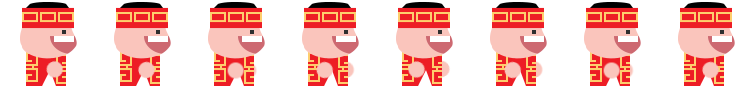
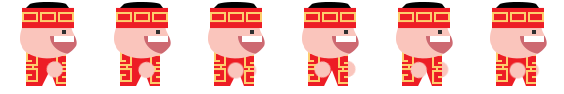
Implement walking animation for all direction; normalize 6-frame animation; let character always on the move as main control item

diff --git a/client/css/components/_characters.scss b/client/css/components/_characters.scss
@@ -1,43 +1,45 @@
 
-.map-grid .square {
-	width: 8.33333%;
-	padding-bottom: 8.33333%;
-	float: left;
+.map-grid {
 
-	&.wall {
-		background-image: url(img/characters/wall.png);
-		background-repeat: no-repeat;
-		background-size: 100%;
+	.square {
+		width: 8.33333%;
+		padding-bottom: 8.33333%;
+		float: left;
 
-		@include media-query(retina) {
-			background-image: url(img/characters2x/wall.png);
+		&.wall {
+			background-image: url(img/characters/wall.png);
+			background-repeat: no-repeat;
+			background-size: 100%;
+
+			@include media-query(retina) {
+				background-image: url(img/characters2x/wall.png);
+			}
+		}
+
+		&.rock {
+			background-image: url(img/characters/rock.png);
+			background-size: 100%;
+
+			@include media-query(retina) {
+				background-image: url(img/characters2x/rock.png);
+			}
+		}
+
+		&.ground {
+			background-image: url(img/characters/ground.png);
+			background-size: 100%;
+
+			@include media-query(retina) {
+				background-image: url(img/characters2x/ground.png);
+			}
 		}
 	}
 
-	&.user {
-		transition: all linear 0.5s;
+	.user {
 		position: absolute;
 	}
 
-	// &.user-down {
-	// 	background-image: url(img/characters/main-character.png);
-	// 	background-size: 100%;
-
-	// 	@include media-query(retina) {
-	// 		background-image: url(img/characters2x/main-character.png);
-	// 	}
-	// }
-
-	&.rock {
-		background-image: url(img/characters/rock.png);
-		background-size: 100%;
-
-		@include media-query(retina) {
-			background-image: url(img/characters2x/rock.png);
-		}
-	}
-
-	&.goal {
+	.goal {
 		position: absolute;
 		background-image: url(img/characters/goal.png);
 		background-size: 100%;
@@ -47,11 +49,7 @@
 		}
 	}
 
-	&.banh-chung {
-		-webkit-transition: all linear 0.5s;
-		-moz-transition: all linear 0.5s;
-		-o-transition: all linear 0.5s;
-		transition: all linear 0.5s;
+	.banh-chung {
 		position: absolute;
 		background-image: url(img/characters/banh-chung.png);
 		background-size: 100%;
@@ -61,38 +59,39 @@
 		}
 	}
 
-	&.ground {
-		background-image: url(img/characters/ground.png);
-		background-size: 100%;
+	.user,
+	.banh-chung {
+		// define movement animation
+		transition-property: top, left;
+		transition-timing-function: linear;
+		transition-duration: $character-movement-duration;
+	}
 
-		@include media-query(retina) {
-			background-image: url(img/characters2x/ground.png);
+	.decorator {
+		@include character-icon(decorator-1, 73px, 103px);
+		@include character-icon(decorator-2, 63px, 94px);
+		@include character-icon(decorator-3, 73px, 109px);
+		@include character-icon(decorator-4, 51px, 95px);
+		@include character-icon(decorator-5, 47px, 103px);
+		@include character-icon(decorator-6, 71px, 132px);
+		@include character-icon(decorator-7, 62px, 104px);
+		@include character-icon(decorator-8, 70px, 175px);
+		position: relative;
+
+		&:before {
+			content: '';
+			background-position: left bottom;
+			background-repeat: no-repeat;
+			background-size: 100%;
+			overflow: visible;
+			position: absolute;
+			bottom: -20px;
+			left: 50%;
 		}
 	}
 }
 
-.map-grid .decorator {
-	@include character-icon(decorator-1, 73px, 103px);
-	@include character-icon(decorator-2, 63px, 94px);
-	@include character-icon(decorator-3, 73px, 109px);
-	@include character-icon(decorator-4, 51px, 95px);
-	@include character-icon(decorator-5, 47px, 103px);
-	@include character-icon(decorator-6, 71px, 132px);
-	@include character-icon(decorator-7, 62px, 104px);
-	@include character-icon(decorator-8, 70px, 175px);
-	position: relative;
 
-	&:before {
-		content: '';
-		background-position: left bottom;
-		background-repeat: no-repeat;
-		background-size: 100%;
-		overflow: visible;
-		position: absolute;
-		bottom: -20px;
-		left: 50%;
-	}
-}
 
 // user animation
 .user-up,
@@ -137,19 +136,14 @@
 		background-image: url(img/animation/user-down.png);
 		background-size: 100%;
 
+		animation-name: moving;
+		animation-duration: $walking-animation-duration;
+		animation-iteration-count: infinite;
+		animation-timing-function: steps(6, end);
+
 		@include media-query(retina) {
 			width: 600%;
 			background-image: url(img/animation2x/user-down.png);
-		}
-	}
-
-	&.moving {
-		&:before {
-			animation: moving $timing-character steps(6, end) infinite;
-
-			@include media-query(retina) {
-				width: 600%;
-			}
 		}
 	}
 }
@@ -164,33 +158,21 @@
 
 .user-left {
 	&:before {
-		width: 800%;
 		background-image: url(img/animation/user-left.png);
 
 		@include media-query(retina) {
 			background-image: url(img/animation2x/user-left.png);
 		}
 	}
-
-	&.moving:before {
-		width: 800%;
-		animation: moving $timing-character steps(8, end) infinite;
-	}
 }
 
 .user-right {
 	&:before {
-		width: 800%;
 		background-image: url(img/animation/user-right.png);
 
 		@include media-query(retina) {
 			background-image: url(img/animation2x/user-right.png);
 		}
-	}
-
-	&.moving:before {
-		width: 800%;
-		animation: moving $timing-character steps(8, end) infinite;
 	}
 }
 

diff --git a/client/data/MapRender.js b/client/data/MapRender.js
@@ -103,11 +103,15 @@ window.chungapp.render = window.chungapp.render || {};
 
 			var dataX = userPosition.x;
 			var dataY = userPosition.y;
+			var directionClass = 'user-' + direction;
 
-			$('.user').addClass('moving').css({
-				'left': ( dataX / 12 ) * 100 + '%',
-				'top': ( dataY / 12 ) * 100 + '%'
-			});
+			$('.user')
+				.removeClass('user-right user-left user-up user-down')
+				.addClass(directionClass)
+				.css({
+					'left': ( dataX / 12 ) * 100 + '%',
+					'top': ( dataY / 12 ) * 100 + '%'
+				});
 
 			var banhChungArray = $('.banh-chung');
 
@@ -123,9 +127,9 @@ window.chungapp.render = window.chungapp.render || {};
 				}
 			}
 			var el = document.getElementsByClassName('user')[0];
-			el.addEventListener("transitionend", function() {
-				$(this).removeClass('moving');
-			}, true);
+			// el.addEventListener('transitionend', function() {
+			// 	$(this).removeClass('moving');
+			// }, true);
 
 		},
 

diff --git a/client/css/_variables.scss b/client/css/_variables.scss
@@ -65,3 +65,7 @@ $googleplus: #dd4b39;
 // active color
 $bg-active-state: #c5c4c3;
 
+// duration of animation frames
+$walking-animation-duration: 0.5s;
+// duration of movement transition
+$character-movement-duration: 0.3s;

diff --git a/client/css/components/_keyframes.scss b/client/css/components/_keyframes.scss
@@ -3,10 +3,6 @@
 // Keyframes
 // ---------
 
-// keyframes moving (behaviour of character)
-
-$timing-character: 0.5s;
-
 @keyframes moving {
 	0% {
 		transform: translate(0, 0);
